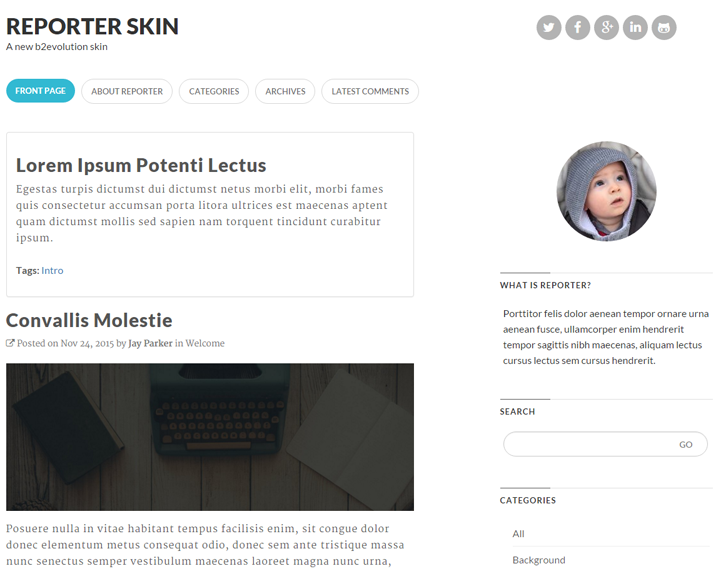
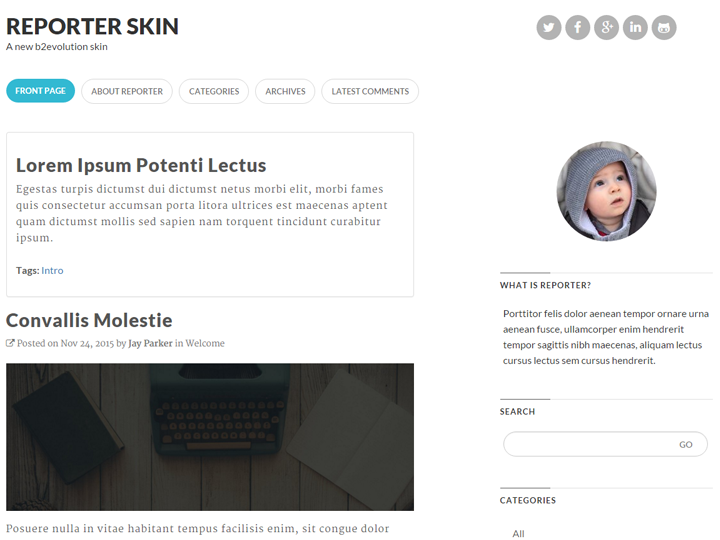
skin update - proper skinshot size + supported collection kinds function

diff --git a/_skin.class.php b/_skin.class.php
@@ -59,6 +59,34 @@ class reporter_Skin extends Skin
 	{
 		return 6;
 	}
+	
+	
+	/**
+	* Get supported collection kinds.
+	*
+	* This should be overloaded in skins.
+	*
+	* For each kind the answer could be:
+	* - 'yes' : this skin does support that collection kind (the result will be was is expected)
+	* - 'partial' : this skin is not a primary choice for this collection kind (but still produces an output that makes sense)
+	* - 'maybe' : this skin has not been tested with this collection kind
+	* - 'no' : this skin does not support that collection kind (the result would not be what is expected)
+	* There may be more possible answers in the future...
+	*/
+	public function get_supported_coll_kinds()
+	{
+		$supported_kinds = array(
+				'main' => 'no',
+				'std' => 'yes',		// Blog
+				'photo' => 'no',
+				'forum' => 'no',
+				'manual' => 'no',
+				'group' => 'no',  // Tracker
+				// Any kind that is not listed should be considered as "maybe" supported
+			);
+
+		return $supported_kinds;
+	}
 
 
 	/**
